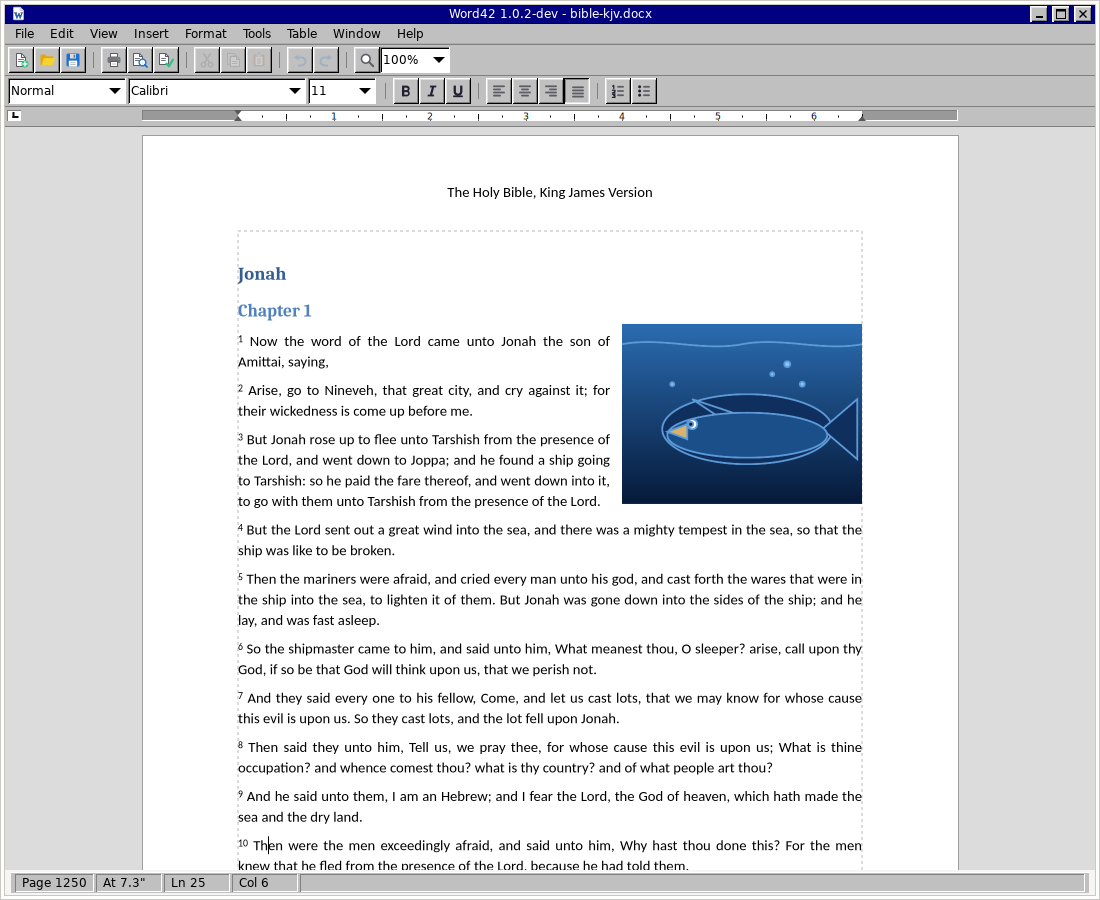
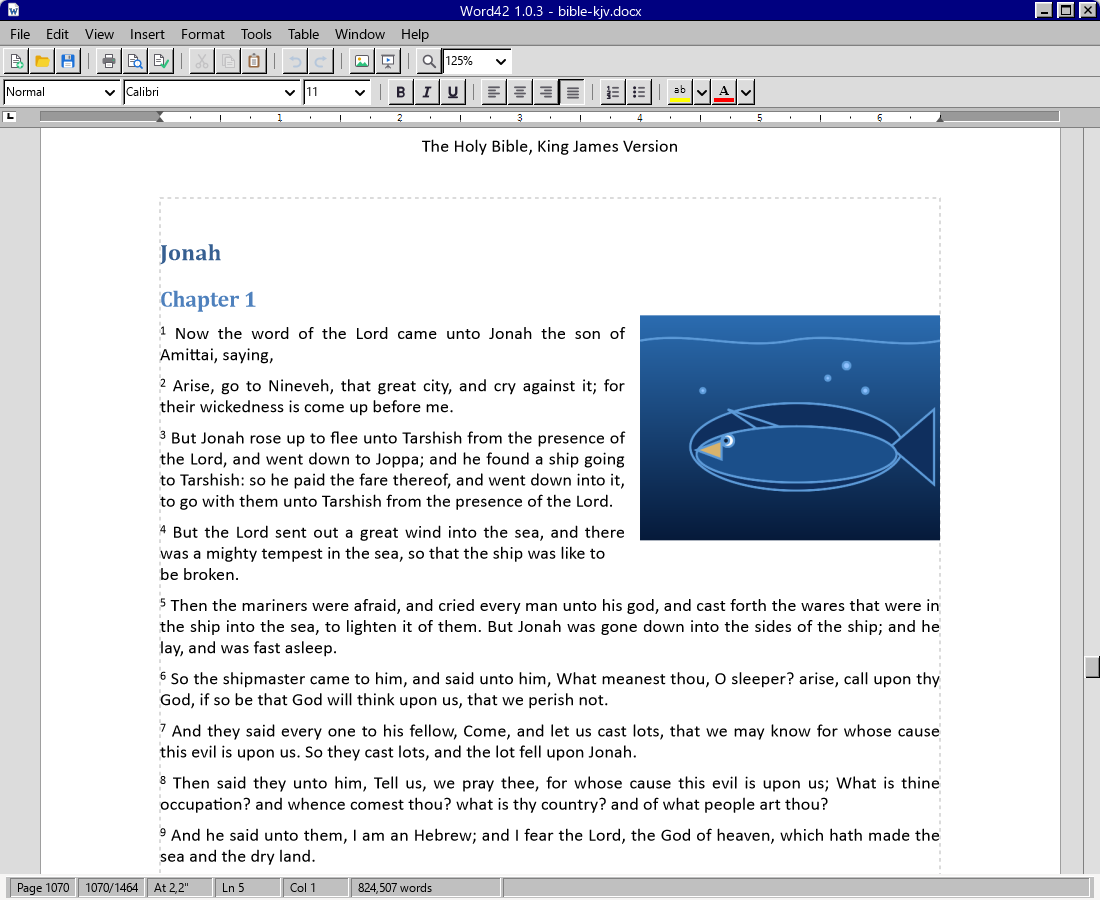
The README's screenshot shows the new toolbars
Taken on Windows at the README's size, on the first chapter of Jonah in
the Bible sample as before: the brighter toolbars with Insert Picture,
Show as Slide Show, Highlight and Font Color, and the 125% zoom a
window now opens at.

diff --git a/README.md b/README.md
@@ -6,7 +6,7 @@
 A classic word processor, written from scratch in C on GTK 4, Pango and
 Cairo: a menu bar, two toolbars, a ruler, a status bar and a page.
 
-![Word42 in Page Layout view, open at the first chapter of Jonah in the King James Bible sample — "Now the word of the Lord came unto Jonah" — the verses set justified with superscript numbers under the book's heading, running down the left of a picture of the great fish in the deep, on page 1250 of 1708](docs/images/screenshot.png)
+![Word42 in Page Layout view, open at the first chapter of Jonah in the King James Bible sample — "Now the word of the Lord came unto Jonah" — the verses set justified with superscript numbers under the book's heading, running down the left of a picture of the great fish in the deep, on page 1070 of 1464](docs/images/screenshot.png)
 
 A working word processor: typing, formatting, styles and numbered headings,
 headers and footers, footnotes and endnotes, tables, pictures, lists,
